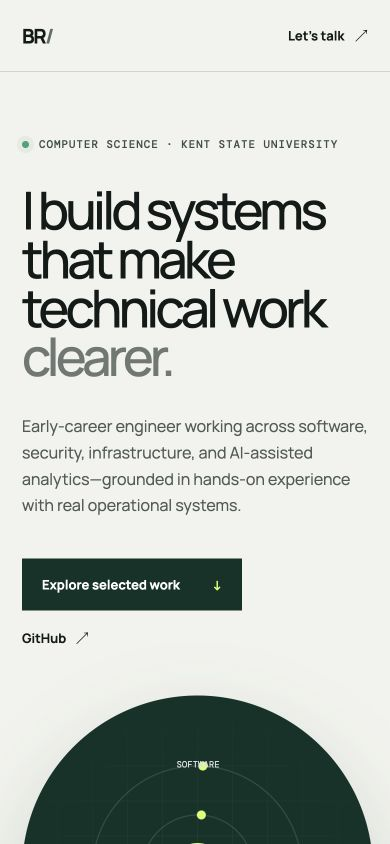
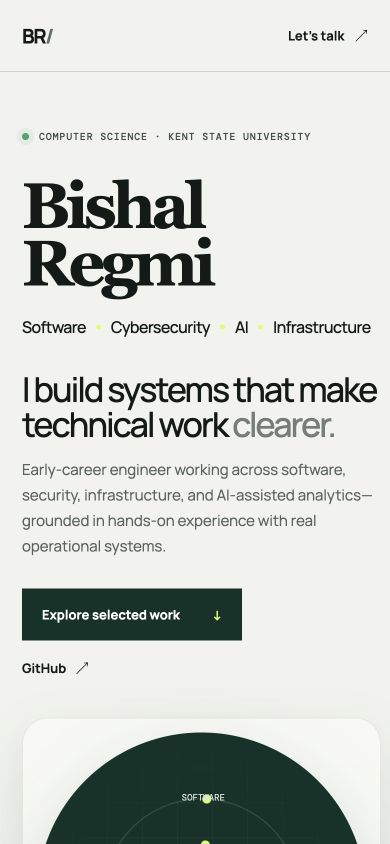
feat: redesign hero around personal identity

diff --git a/app/globals.css b/app/globals.css
@@ -1,2 +1,2 @@
 @import url('https://fonts.googleapis.com/css2?family=DM+Mono:wght@400;500&family=Manrope:wght@400;500;600;700&display=swap');
-:root{--ink:#111a17;--forest:#0d3329;--accent:#d6ff68;--paper:#f2f3ed;--muted:#66706c;--line:#cfd4cc}*{box-sizing:border-box}html{scroll-behavior:smooth}body{margin:0;background:var(--paper);color:var(--ink);font-family:Manrope,Arial,sans-serif}.nav{height:86px;max-width:1480px;margin:auto;padding:0 clamp(22px,5vw,76px);display:flex;align-items:center;justify-content:space-between;border-bottom:1px solid var(--line)}a{color:inherit;text-decoration:none}.mark{font-size:20px;font-weight:800;letter-spacing:-.06em}.mark span{color:#5f6b66}.navLinks{display:flex;gap:34px;font-size:13px}.navLinks a,.contactLink{transition:opacity .2s}.navLinks a:hover,.contactLink:hover{opacity:.55}.contactLink{font-size:13px;font-weight:700}.contactLink span{margin-left:8px}.hero{max-width:1480px;margin:auto;min-height:calc(100vh - 136px);padding:clamp(60px,9vh,118px) clamp(22px,5vw,76px) 64px;display:grid;grid-template-columns:minmax(0,1.08fr) minmax(380px,.72fr);gap:7vw;align-items:center}.heroCopy{max-width:820px}.eyebrow{display:flex;align-items:center;gap:10px;font:500 11px DM Mono,monospace;letter-spacing:.08em;text-transform:uppercase;color:#3f4d47}.eyebrow span{width:7px;height:7px;background:#36a273;border-radius:50%;box-shadow:0 0 0 5px #36a27318}.hero h1{font-size:clamp(52px,7vw,105px);line-height:.94;letter-spacing:-.072em;margin:34px 0 32px;font-weight:500}.hero h1 em{color:#6f7874;font-style:normal}.lede{max-width:700px;color:#4f5b56;font-size:clamp(17px,1.45vw,22px);line-height:1.65}.heroActions{display:flex;align-items:center;gap:25px;margin-top:40px}.heroActions a{font-size:13px;font-weight:700}.primary{background:var(--forest);color:white;padding:17px 20px}.primary span{color:var(--accent);margin-left:30px}.secondary span{margin-left:7px}.systemVisual{aspect-ratio:1;position:relative;border-radius:50%;background:var(--forest);color:white;overflow:hidden;box-shadow:0 35px 80px #173a2d2e}.systemVisual:before{content:"";position:absolute;inset:0;background-image:linear-gradient(#ffffff0b 1px,transparent 1px),linear-gradient(90deg,#ffffff0b 1px,transparent 1px);background-size:35px 35px;mask-image:radial-gradient(circle,#000,transparent 72%)}.orbit{position:absolute;border:1px solid #ffffff26;border-radius:50%;inset:20%}.orbitOne{animation:spin 26s linear infinite}.orbitOne:after,.orbitTwo:after{content:"";position:absolute;width:9px;height:9px;border-radius:50%;background:var(--accent);top:-5px;left:50%}.orbitTwo{inset:34%;animation:spin 18s linear infinite reverse}.core{position:absolute;inset:42%;display:grid;place-items:center;background:var(--accent);color:var(--forest);border-radius:50%}.core b{font-size:21px;letter-spacing:-.08em}.core small{position:absolute;top:calc(100% + 14px);text-align:center;color:white;font:9px/1.5 DM Mono}.node{position:absolute;font:9px DM Mono;color:#d9e1dd}.n1{top:18%;left:44%}.n2{top:48%;right:10%}.n3{bottom:16%;left:40%}.n4{top:48%;left:13%}.systemVisual>p{position:absolute;bottom:8%;width:100%;text-align:center;font:8px DM Mono;letter-spacing:.16em;color:#a7b9b1}.systemVisual i{color:var(--accent);font-style:normal}@keyframes spin{to{transform:rotate(360deg)}}.signal{max-width:1480px;margin:auto;min-height:50px;border-top:1px solid var(--line);padding:0 clamp(22px,5vw,76px);display:flex;align-items:center;justify-content:space-between;color:#5c6762;font:10px DM Mono;letter-spacing:.08em;text-transform:uppercase}.signal span:before{content:"+";color:#82908a;margin-right:9px}@media(max-width:900px){.navLinks{display:none}.hero{grid-template-columns:1fr}.systemVisual{width:min(520px,90vw);justify-self:center}.signal{gap:20px;overflow:auto;justify-content:flex-start}.signal span{white-space:nowrap}}@media(max-width:560px){.nav{height:72px}.hero{padding-top:54px}.hero h1{font-size:52px}.heroActions{align-items:flex-start;flex-direction:column;gap:18px}.systemVisual{margin-top:20px}.lede{font-size:16px}}@media(prefers-reduced-motion:reduce){html{scroll-behavior:auto}.orbit{animation:none}}
+:root{--ink:#111a17;--forest:#0d3329;--accent:#d6ff68;--paper:#f2f3ed;--muted:#66706c;--line:#cfd4cc}*{box-sizing:border-box}html{scroll-behavior:smooth}body{margin:0;background:var(--paper);color:var(--ink);font-family:Manrope,Arial,sans-serif}.nav{height:86px;max-width:1480px;margin:auto;padding:0 clamp(22px,5vw,76px);display:flex;align-items:center;justify-content:space-between;border-bottom:1px solid var(--line)}a{color:inherit;text-decoration:none}.mark{font-size:20px;font-weight:800;letter-spacing:-.06em}.mark span{color:#5f6b66}.navLinks{display:flex;gap:34px;font-size:13px}.navLinks a,.contactLink{transition:opacity .2s}.navLinks a:hover,.contactLink:hover{opacity:.55}.contactLink{font-size:13px;font-weight:700}.contactLink span{margin-left:8px}.hero{max-width:1480px;margin:auto;min-height:calc(100vh - 136px);padding:clamp(54px,7.5vh,92px) clamp(22px,5vw,76px) 58px;display:grid;grid-template-columns:minmax(0,1.02fr) minmax(400px,.78fr);gap:5.5vw;align-items:center}.heroCopy{max-width:850px}.eyebrow{display:flex;align-items:center;gap:10px;font:500 10px DM Mono,monospace;letter-spacing:.08em;text-transform:uppercase;color:#3f4d47}.eyebrow span{width:7px;height:7px;background:#36a273;border-radius:50%;box-shadow:0 0 0 5px #36a27318}.hero h1{font-family:Georgia,"Times New Roman",serif;font-size:clamp(68px,7vw,110px);line-height:.9;letter-spacing:-.07em;margin:34px 0 24px;font-weight:600;white-space:nowrap}.focusLine{display:flex;align-items:center;flex-wrap:wrap;gap:12px;font-size:clamp(16px,1.75vw,25px);font-weight:500;letter-spacing:-.035em}.focusLine i{width:7px;height:7px;background:var(--accent);border-radius:50%}.heroStatement{max-width:680px;margin:38px 0 14px;font-size:clamp(28px,3.25vw,48px);line-height:1.02;letter-spacing:-.055em;font-weight:500}.heroStatement em{color:#747d79;font-style:normal}.lede{max-width:680px;color:#58635e;font-size:clamp(14px,1.05vw,17px);line-height:1.7}.heroActions{display:flex;align-items:center;gap:25px;margin-top:30px}.heroActions a{font-size:13px;font-weight:700}.primary{background:var(--forest);color:white;padding:17px 20px}.primary span{color:var(--accent);margin-left:30px}.secondary span{margin-left:7px}.visualCard{padding:clamp(18px,2.4vw,34px);border-radius:36px;background:#f8f9f4;box-shadow:0 18px 45px #173a2d1f;border:1px solid #e5e7df}.systemVisual{aspect-ratio:1;position:relative;border-radius:50%;background:var(--forest);color:white;overflow:hidden;box-shadow:0 28px 65px #173a2d30}.systemVisual:before{content:"";position:absolute;inset:0;background-image:linear-gradient(#ffffff0b 1px,transparent 1px),linear-gradient(90deg,#ffffff0b 1px,transparent 1px);background-size:35px 35px;mask-image:radial-gradient(circle,#000,transparent 72%)}.orbit{position:absolute;border:1px solid #ffffff26;border-radius:50%;inset:20%}.orbitOne{animation:spin 26s linear infinite}.orbitOne:after,.orbitTwo:after{content:"";position:absolute;width:9px;height:9px;border-radius:50%;background:var(--accent);top:-5px;left:50%}.orbitTwo{inset:34%;animation:spin 18s linear infinite reverse}.core{position:absolute;inset:42%;display:grid;place-items:center;background:var(--accent);color:var(--forest);border-radius:50%}.core b{font-size:21px;letter-spacing:-.08em}.core small{position:absolute;top:calc(100% + 14px);text-align:center;color:white;font:9px/1.5 DM Mono}.node{position:absolute;font:9px DM Mono;color:#d9e1dd}.n1{top:18%;left:44%}.n2{top:48%;right:10%}.n3{bottom:16%;left:40%}.n4{top:48%;left:13%}.systemVisual>p{position:absolute;bottom:8%;width:100%;text-align:center;font:8px DM Mono;letter-spacing:.16em;color:#a7b9b1}.systemVisual i{color:var(--accent);font-style:normal}@keyframes spin{to{transform:rotate(360deg)}}.signal{max-width:1480px;margin:auto;min-height:50px;border-top:1px solid var(--line);padding:0 clamp(22px,5vw,76px);display:flex;align-items:center;justify-content:space-between;color:#5c6762;font:10px DM Mono;letter-spacing:.08em;text-transform:uppercase}.signal span:before{content:"+";color:#82908a;margin-right:9px}@media(max-width:1000px){.hero{grid-template-columns:1fr}.visualCard{width:min(560px,92vw);justify-self:center}.signal{gap:20px;overflow:auto;justify-content:flex-start}.signal span{white-space:nowrap}}@media(max-width:900px){.navLinks{display:none}}@media(max-width:560px){.nav{height:72px}.hero{padding-top:48px}.hero h1{font-size:64px;white-space:normal}.focusLine{gap:8px 10px;font-size:16px}.focusLine i{width:5px;height:5px}.heroStatement{font-size:34px;margin-top:34px}.heroActions{align-items:flex-start;flex-direction:column;gap:18px}.visualCard{margin-top:18px;padding:14px;border-radius:26px}.lede{font-size:15px}}@media(prefers-reduced-motion:reduce){html{scroll-behavior:auto}.orbit{animation:none}}

diff --git a/app/page.tsx b/app/page.tsx
@@ -8,8 +8,18 @@ export default function Home() {
   return (
     <main>
       <nav className="nav" aria-label="Primary navigation"><a className="mark" href="#top" aria-label="Bishal Regmi, home">BR<span>/</span></a><div className="navLinks"><a href="#work">Work</a><a href="#experience">Experience</a><a href="#about">About</a></div><a className="contactLink" href="#contact">Let’s talk <span>↗</span></a></nav>
-      <section className="hero" id="top"><div className="heroCopy"><p className="eyebrow"><span /> Computer Science · Kent State University</p><h1>I build systems that make technical work <em>clearer.</em></h1><p className="lede">Early-career engineer working across software, security, infrastructure, and AI-assisted analytics—grounded in hands-on experience with real operational systems.</p><div className="heroActions"><a className="primary" href="#work">Explore selected work <span>↓</span></a><a className="secondary" href={profile.github}>GitHub <span>↗</span></a></div></div><div className="systemVisual" aria-label="Diagram connecting software, security, networks, and AI systems"><div className="orbit orbitOne" /><div className="orbit orbitTwo" /><span className="node n1">SOFTWARE</span><span className="node n2">SECURITY</span><span className="node n3">NETWORKS</span><span className="node n4">AI</span><div className="core"><b>BR</b><small>SYSTEMS<br/>THINKING</small></div><p>BUILD <i>·</i> SECURE <i>·</i> ANALYZE <i>·</i> AUTOMATE</p></div></section>
-      <div className="signal"><span>Software Engineering</span><span>Cybersecurity</span><span>AI & Automation</span><span>Infrastructure</span></div>
+      <section className="hero" id="top">
+        <div className="heroCopy">
+          <p className="eyebrow"><span /> Computer Science · Kent State University</p>
+          <h1>{profile.name}</h1>
+          <div className="focusLine" aria-label="Focus areas"><span>Software</span><i /><span>Cybersecurity</span><i /><span>AI</span><i /><span>Infrastructure</span></div>
+          <p className="heroStatement">I build systems that make technical work <em>clearer.</em></p>
+          <p className="lede">Early-career engineer working across software, security, infrastructure, and AI-assisted analytics—grounded in hands-on experience with real operational systems.</p>
+          <div className="heroActions"><a className="primary" href="#work">Explore selected work <span>↓</span></a><a className="secondary" href={profile.github}>GitHub <span>↗</span></a></div>
+        </div>
+        <div className="visualCard"><div className="systemVisual" aria-label="Animated diagram connecting software, security, networks, and AI systems"><div className="orbit orbitOne" /><div className="orbit orbitTwo" /><span className="node n1">SOFTWARE</span><span className="node n2">SECURITY</span><span className="node n3">NETWORKS</span><span className="node n4">AI</span><div className="core"><b>BR</b><small>SYSTEMS<br/>THINKING</small></div><p>BUILD <i>·</i> SECURE <i>·</i> ANALYZE <i>·</i> AUTOMATE</p></div></div>
+      </section>
+      <div className="signal"><span>Build useful software</span><span>Assess real risk</span><span>Analyze operations</span><span>Automate with guardrails</span></div>
 
       <section className="section intro" id="about"><div><p className="sectionLabel">01 / HOW I WORK</p><h2>Across the stack.<br/>Close to the problem.</h2></div><div className="introText"><p>I like understanding both <strong>how systems are built</strong> and <strong>how they operate in the real world.</strong> That perspective has taken me from security and recovery planning to network operations—and then into building software that supports better technical decisions.</p><p>I am early in my career, but the problems have been real: incomplete data, operational constraints, confidentiality, competing priorities, and the need to explain complex work clearly.</p></div></section>
       <section className="capabilities" aria-label="Capabilities">{capabilities.map(([name, text], i) => <article key={name}><span>0{i + 1}</span><h3>{name}</h3><p>{text}</p></article>)}</section>
